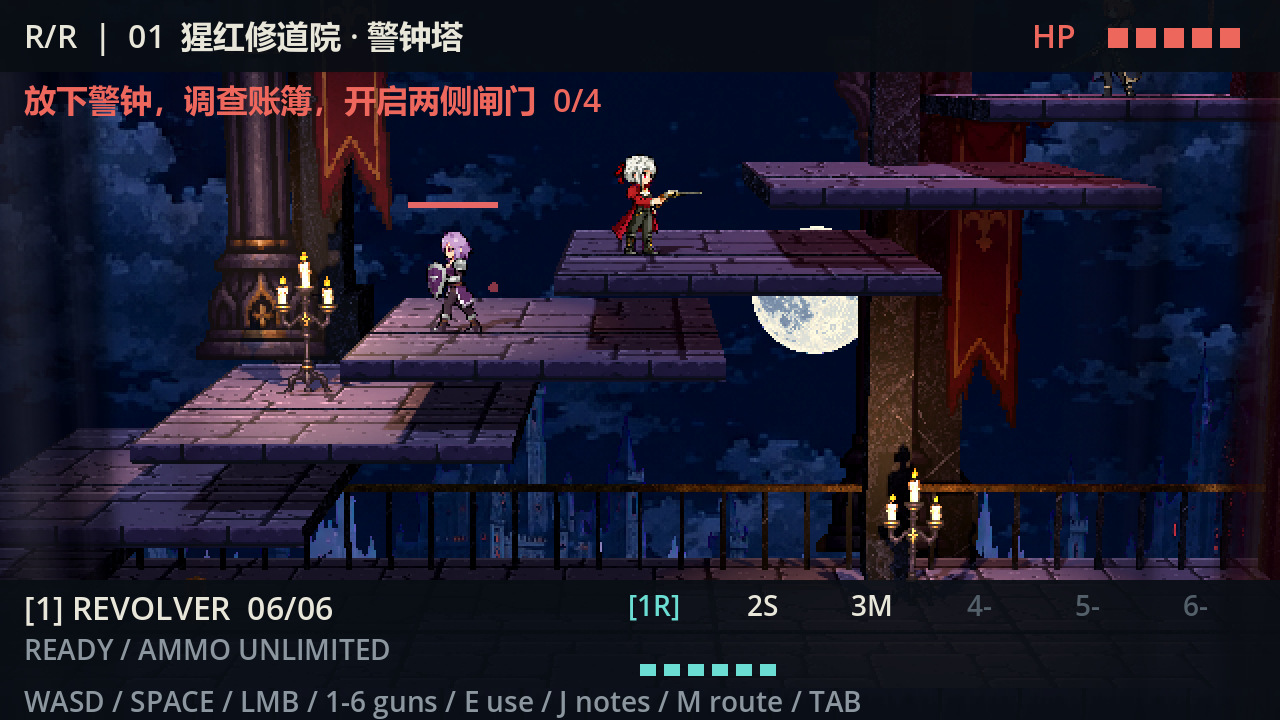
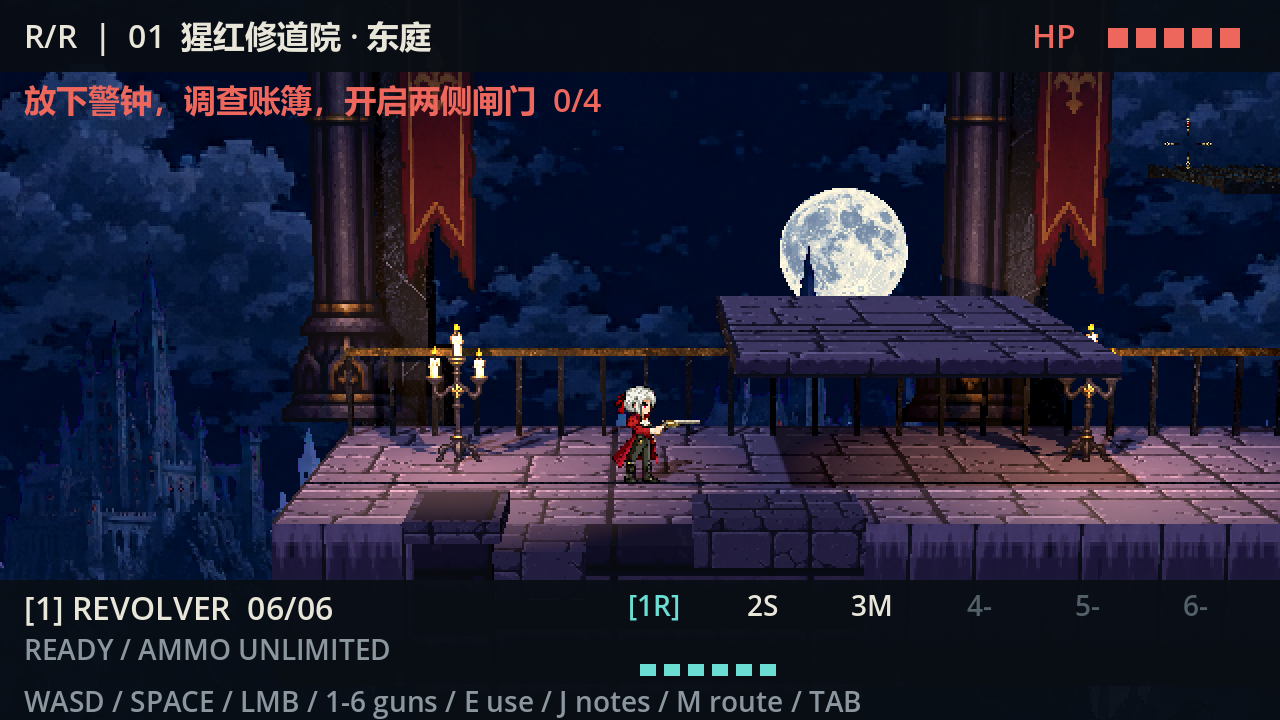
Replace blurred foreground with editable low stone walls

diff --git a/docs/FOREGROUND_DEPTH.md b/docs/FOREGROUND_DEPTH.md
@@ -1,17 +1,29 @@
-# 近景虚化与书架层级
+# 下方分段城墙与建筑层级
 
-2026-09-11。用户要求增加示意图式镜头前景，并指出书架与平台重叠。
+2026-09-11。用户否决两侧模糊柱旗，改为下方分段城墙。本文件覆盖此前的近景柔焦规范。
 
-近景复用现有 imagegen 环境图集中的柱饰与垂旗，作为独立 Sprite3D 分布在整张连续地图，z=1.25，位于角色平面之前。物件保持世界坐标，镜头横移时产生真实透视视差，不是固定在屏幕上的边框。近景柱饰上下延伸出取景区域，作为镜头附近建筑的局部，不出现悬空的柱底。未生成新的素材源图。
+## 当前呈现
 
-只有近景使用独立的 25 次采样柔化材质，透明边缘先按 alpha 加权再还原颜色，避免黑边。背景、平台、角色和 UI 不参与模糊。画面中央 62% 宽度完全不显示近景，向左右边缘逐渐显现，最大不透明度 0.68。这样仍能辨认边缘落点；准星与 UI 保持清晰。这里是近景贴片的定量柔焦，并非全场景光学景深；当前 Compatibility 渲染流程保持不变。
+五段场景各有两组近景石墙，共十组，宽 120–180 逻辑像素。墙体为真实 3D 几何，有立面、压顶、降低的缺口和两处短墙端柱。墙基向下延伸出取景区域，视作近处外墙的局部，不出现悬空底边。墙段位置保持世界坐标；近镜头、上层路线和跳跃时可以自然离开视野，不强行保持屏幕边框。
 
-书架背板、层板和书本整体移至平台背面之外，最前层板表面为 z=-1.26，平台背面为 -1.175。底部增加与永久平台背面接合的石托。不能仅移动背板或让上方平台切入书本。
+移除旧版 14 张拉长柱旗及 foreground_soft 模糊材质；不做模糊、屏幕边缘渐隐或透明黑幕。普通不透明石材使用最近邻采样，接受环境光，颜色低于可玩平台。前景不投下会干扰战斗的阴影，也不增加碰撞。
 
-检查：环境回归验证三次重置后只有一组前景、全图 14 处近景及独立材质；装饰回归覆盖书架全组深度与石托接合。实际 GPU 固定镜头截图覆盖五段关卡的近远视野，见 screenshots/foreground_depth.png 与 screenshots/archive_depth.png；不等同于人工连续键鼠试玩。
+## 素材与编辑
 
-本周期账户剩余 62%，按用户约定完成当前两项、验证、更新唯一 EXE 后收尾。
+检查现有 atlas_v1.png 后，素石条 Rect2i(668,42,526,62) 足够用于墙面，石砖区域 Rect2i(48,34,548,526) 用于压顶。保留原 imagegen 来源，未生成新图。通过三向投影按世界尺度采样，不把整幅哥特拱门贴满墙面；缺口与厚度由几何表达。
 
-完整 tools/run_checks.ps1 已通过：环境 78 项，装饰 193 项；30/60/144 渲染帧率的控制器与手感测试均通过。书架深度检查先在旧版复现 145 项失败，再验证整体后移后的通过结果。
+在 Godot 打开 scenes/rooms/near_foreground.tscn 可独立编辑十组墙的位置。每组导出 width 和 end_pier，工具脚本实时重建。节点原点为最高压顶面；两个端柱位置不再额外超过这个上限。场景实例归入主地图 scenery，重置时一起销毁重建，材质接入 F6 白模切换。
 
-用户关闭旧游戏后，唯一输出 builds/windows/RecoilRequiem.exe 已成功覆盖。最终 EXE 在 RTX 3070 上运行 120 帧正常退出，退出码 0，日志无错误；输出目录仅此一个文件。文件大小 120246152 字节，SHA256：E8D26CE9792D43C00491EF533C0AE283702D886241006A6FF1B28823906DA74F。
+景深中心 z=0.95，最靠后实体面 z=0.72，位于可玩平台前面 z=0.675 之外。普通墙顶 y=-3.38，低洼外廊与花园为 -3.90。后两组分别布置于低处实地前沿，并在墙间保留开口，不横跨整段屏幕。
+
+## 验证与限制
+
+高度按扣除 HUD 后的可见区域计算：640×360 世界画面中，HUD 上界约 y=36、下界 y=290。测试要求墙顶不超过这段可见区域的下方 20%。每隔 32 逻辑像素采样实际平台高度，包括下层路线与机关平台，覆盖 0/80/160 像素空中高度、三把枪的六个远近距离和三档镜头偏移。最高墙顶落在世界画面 y=0.707–0.725，即可见游戏区域下方约 11%–14%；所有采样中的角色脚底与墙顶至少相隔 4 渲染像素。近镜头下不保证低墙始终可见。
+
+tests/test_foreground.gd 为 23 项通过，覆盖投影高度、角色脚底、真实视差和短柱数量。完整 tools/run_checks.ps1 通过，环境 174 项、装饰接合 193 项通过；最终墙段横向调整后重跑前景测试通过。
+
+tests/capture_foreground.gd 为十组墙的六个镜头距离输出 60 张实际 GPU 截图；代表图见 screenshots/foreground_depth.png 与 screenshots/foreground_garden.png。tests/capture_foreground_motion.gd 配合 --fixed-fps 60 --write-movie artifacts/foreground_traversal.avi 生成三秒横移跳跃片段，并输出四张过程截图。这是固定输入呈现检查，不是人工键鼠试玩；既有平台遮挡表现不由本次前景改动修复。
+
+此前书架背板、层板、书本整体位于平台后面，最前层板为 z=-1.26，石托接合永久平台背面；柱子和玫瑰修复保持。当前周期账户剩余 60%，本次按约定验证、导出、记录并同步主分支后收尾。
+
+最终唯一输出 builds/windows/RecoilRequiem.exe 已重新导出，在 RTX 3070 上运行 120 帧，退出码 0，日志无错误。SHA256：BC7AC1E040B03EA8C9952A492FFD6748AC530BB52283C7449274720EE0365163。

diff --git a/docs/ART_STANDARD.md b/docs/ART_STANDARD.md
@@ -1,6 +1,6 @@
 # 《反冲挽歌》美术标准 v2
 
-近景允许对独立柱饰、垂旗贴片做局部柔焦，角色、平台、远景和原生 UI 仍保持既定采样。近景保持世界位置产生视差，中心战斗区域淡出，不得以遮挡或全屏模糊影响战斗读图。书架等高立面装饰须连同所有层板、书本一起位于平台后侧，底座连接真实支撑。详见 [近景与书架层级](FOREGROUND_DEPTH.md)。
+前景采用下方分段城墙、残缺压顶与少量连接墙体的短柱，保持真实三维厚度和世界位置。禁止前景虚化、左右渐隐遮罩及拉长柱旗铺满画面。最近邻采样，墙顶主要占扣除 HUD 后游戏区域的下方 8%–15%，不得超过下方 20%；近镜头和跳跃时允许自然退出画面，不得跟随镜头升降。书架等高立面装饰须连同层板、书本一起位于平台后侧，底座连接真实支撑。详见 [前景与书架层级](FOREGROUND_DEPTH.md)。
 
 后侧建筑柱必须全部位于平台背面之外，包括柱脚与柱面贴图；不可让柱身穿过可走平台。后置柱脚使用与永久平台背面相接的石托承重，不得移到背景后悬空。景深从后到前为建筑柱、平台后沿栏杆、盆栽等台面物件、角色战斗平面；实际遮挡使用三维深度，不用强制置顶补救穿插。
 
